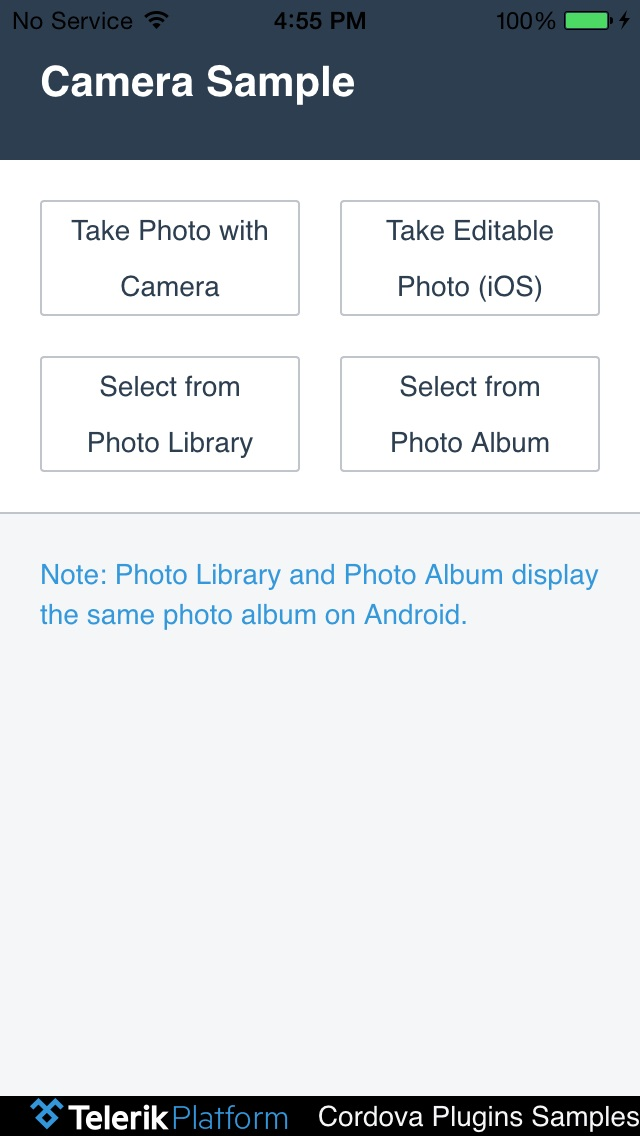
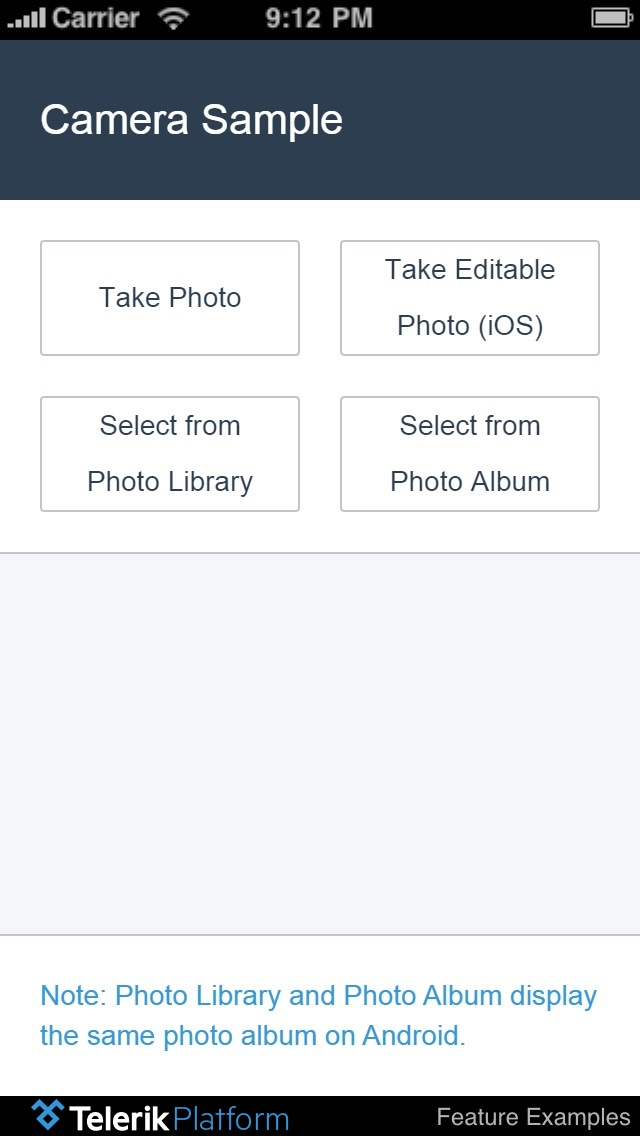
Improvements in the buttons UI and scroll behavior

diff --git a/Camera Sample/index.html b/Camera Sample/index.html
@@ -13,8 +13,8 @@
         </div>
 		<div class="subheader">
 			<div class="row">
-				<div class="col">
-					<button class="button" id="capturePhotoButton">Take Photo with Camera</button>
+				<div class="col -stretch-item">
+					<button class="button" id="capturePhotoButton">Take Photo</button>
 				</div>
 				<div class="col">
 					<button class="button" id="capturePhotoEditButton">Take Editable Photo (iOS)</button>
@@ -30,15 +30,21 @@
 			</div>
 		</div>
         <div class="content">
-            <div class="row">
-                <div class="col -align-center">
-                    <div class="u-color-accent">Note: Photo Library and Photo Album display the same photo album on Android.</div>
-		            <img style="display:none;margin:5px auto; width:120px; height:120px;" id="smallImage" src="" />
-                </div>
+			<div class="row -nopadding">
+				<div class="col -align-center">
+					<img style="display:none;margin:5px auto; max-width:80%; max-height:80%;" id="smallImage" src="" />
+				</div>
 			</div>
         </div>
+		<div class="subfooter">
+			<div class="row">
+				<div class="col -align-center">
+					<div class="u-color-accent">Note: Photo Library and Photo Album display the same photo album on Android.</div>
+				</div>
+			</div>
+		</div>
 		<div class="footer">
-			<span>Cordova Plugins Samples</span>
+			<span>Feature Examples</span>
 		</div>
 	</body>
 </html>

diff --git a/Camera Sample/styles/theme.css b/Camera Sample/styles/theme.css
@@ -685,6 +685,13 @@ p {
   @media only screen and (min-width: 768px) {
     .col {
       padding: 20px; } }
+  .col.-stretch-item {
+    display: -webkit-flex;
+    display: -ms-flexbox;
+    display: flex;
+    -webkit-align-items: stretch;
+        -ms-flex-align: stretch;
+            align-items: stretch; }
   .col.-text-left {
     text-align: left; }
   .col.-text-right {
